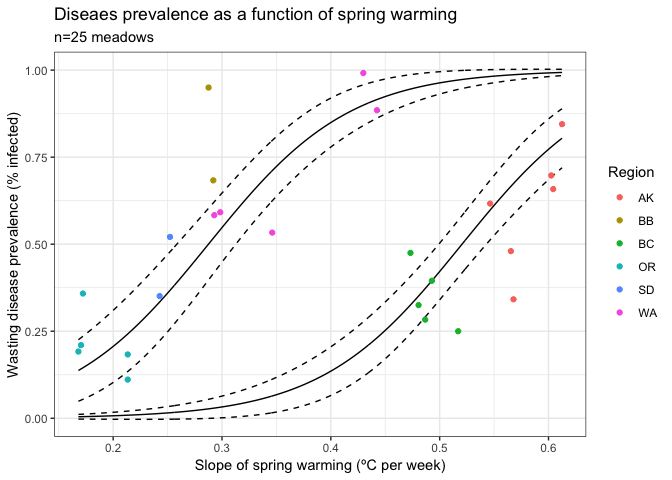
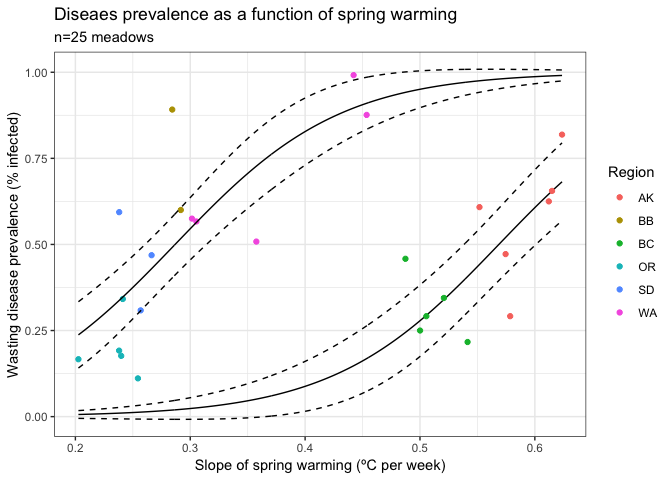
updated spring warming model with most up to date temp data (mix of remote and in situ)

diff --git a/disease_model_III.md b/disease_model_III.md
@@ -5,6 +5,12 @@ LRA
 
 ## Modeling seagrass wasting disease
 
+\*\*Update as of 2020-09-30 I updated this with most recent data
+(modeled OR temps), and it gives the same result, but two major
+hesitations. First, glmmTMB is the wrong package, need to refit with
+betareg, which hasn’t worked so far. And 2, the mixture of remote and in
+situ temps is worrying. Need to determine if this is okay or not.
+
 This is an update to model results from Disease Models II doc, looking
 at disease at the meadow scale with supplemental temperature data.
 Prevalence and severity measurements on individual blades were averaged
@@ -52,25 +58,24 @@ followed geographic patterns, so I re-grouped the meadows as Northern
 lack of temperature data.
 
     ##  Family: beta  ( logit )
-    ## Formula:          PrevalenceMean ~ sBladeArea + sSlope + Region
+    ## Formula:          PrevalenceMean ~ slope + Region
     ## Data: sp
     ## 
     ##      AIC      BIC   logLik deviance df.resid 
-    ##    -21.6    -10.7     19.8    -39.6       16 
+    ##    -22.5    -12.5     19.3    -38.5       18 
     ## 
     ## 
-    ## Overdispersion parameter for beta family (): 13.3 
+    ## Overdispersion parameter for beta family (): 12.3 
     ## 
     ## Conditional model:
     ##             Estimate Std. Error z value Pr(>|z|)    
-    ## (Intercept)  -2.0241     0.7284  -2.779  0.00545 ** 
-    ## sBladeArea   -0.2090     0.2995  -0.698  0.48531    
-    ## sSlope        1.8554     0.5926   3.131  0.00174 ** 
-    ## RegionBB      4.8095     1.2354   3.893 9.90e-05 ***
-    ## RegionBC      0.1239     0.4690   0.264  0.79171    
-    ## RegionOR      3.4319     1.4341   2.393  0.01671 *  
-    ## RegionSD      3.2658     1.4122   2.313  0.02074 *  
-    ## RegionWA      3.6185     0.8989   4.025 5.69e-05 ***
+    ## (Intercept) -7.06672    2.10640  -3.355 0.000794 ***
+    ## slope       12.44657    3.53055   3.525 0.000423 ***
+    ## RegionBB     4.63500    1.19464   3.880 0.000105 ***
+    ## RegionBC    -0.07589    0.44546  -0.170 0.864728    
+    ## RegionOR     2.79896    1.30002   2.153 0.031318 *  
+    ## RegionSD     3.73156    1.25813   2.966 0.003017 ** 
+    ## RegionWA     3.55695    0.88075   4.039 5.38e-05 ***
     ## ---
     ## Signif. codes:  0 '***' 0.001 '**' 0.01 '*' 0.05 '.' 0.1 ' ' 1
 
@@ -80,27 +85,26 @@ lack of temperature data.
     ## Multiple Comparisons of Means: Tukey Contrasts
     ## 
     ## 
-    ## Fit: glmmTMB(formula = PrevalenceMean ~ sBladeArea + sSlope + Region, 
-    ##     data = sp, family = beta_family(link = "logit"), ziformula = ~0, 
-    ##     dispformula = ~1)
+    ## Fit: glmmTMB(formula = PrevalenceMean ~ slope + Region, data = sp, 
+    ##     family = beta_family(link = "logit"), ziformula = ~0, dispformula = ~1)
     ## 
     ## Linear Hypotheses:
     ##              Estimate Std. Error z value Pr(>|z|)    
-    ## BB - AK == 0   4.8095     1.2354   3.893   <0.001 ***
-    ## BC - AK == 0   0.1239     0.4690   0.264   0.9996    
-    ## OR - AK == 0   3.4319     1.4341   2.393   0.1165    
-    ## SD - AK == 0   3.2658     1.4122   2.313   0.1400    
-    ## WA - AK == 0   3.6185     0.8989   4.025   <0.001 ***
-    ## BC - BB == 0  -4.6857     0.9648  -4.856   <0.001 ***
-    ## OR - BB == 0  -1.3776     0.7745  -1.779   0.3840    
-    ## SD - BB == 0  -1.5437     0.6817  -2.264   0.1551    
-    ## WA - BB == 0  -1.1910     0.6813  -1.748   0.4027    
-    ## OR - BC == 0   3.3080     1.1342   2.917   0.0294 *  
-    ## SD - BC == 0   3.1420     1.1324   2.775   0.0442 *  
-    ## WA - BC == 0   3.4947     0.6264   5.579   <0.001 ***
-    ## SD - OR == 0  -0.1660     0.8492  -0.196   0.9999    
-    ## WA - OR == 0   0.1866     0.6866   0.272   0.9996    
-    ## WA - SD == 0   0.3527     0.8369   0.421   0.9966    
+    ## BB - AK == 0  4.63500    1.19464   3.880  0.00101 ** 
+    ## BC - AK == 0 -0.07589    0.44546  -0.170  0.99996    
+    ## OR - AK == 0  2.79896    1.30002   2.153  0.19757    
+    ## SD - AK == 0  3.73156    1.25813   2.966  0.02522 *  
+    ## WA - AK == 0  3.55695    0.88075   4.039  < 0.001 ***
+    ## BC - BB == 0 -4.71089    0.96487  -4.882  < 0.001 ***
+    ## OR - BB == 0 -1.83604    0.55764  -3.292  0.00903 ** 
+    ## SD - BB == 0 -0.90344    0.55944  -1.615  0.49533    
+    ## WA - BB == 0 -1.07805    0.58952  -1.829  0.35992    
+    ## OR - BC == 0  2.87485    1.05021   2.737  0.04887 *  
+    ## SD - BC == 0  3.80745    1.01266   3.760  0.00162 ** 
+    ## WA - BC == 0  3.63283    0.65721   5.528  < 0.001 ***
+    ## SD - OR == 0  0.93260    0.43900   2.124  0.20941    
+    ## WA - OR == 0  0.75798    0.59634   1.271  0.72667    
+    ## WA - SD == 0 -0.17461    0.57393  -0.304  0.99936    
     ## ---
     ## Signif. codes:  0 '***' 0.001 '**' 0.01 '*' 0.05 '.' 0.1 ' ' 1
     ## (Adjusted p values reported -- single-step method)
@@ -109,21 +113,20 @@ With the new Super Region grouping, I re-ran the model with the same
 other effects (Blade Area and Spring Warming)
 
     ##  Family: beta  ( logit )
-    ## Formula:          PrevalenceMean ~ sBladeArea + sSlope + SuperRegion
+    ## Formula:          PrevalenceMean ~ slope + SuperRegion
     ## Data: sp
     ## 
     ##      AIC      BIC   logLik deviance df.resid 
-    ##    -26.9    -21.2     18.5    -36.9       18 
+    ##    -19.2    -14.2     13.6    -27.2       22 
     ## 
     ## 
-    ## Overdispersion parameter for beta family (): 14.1 
+    ## Overdispersion parameter for beta family (): 7.86 
     ## 
     ## Conditional model:
-    ##                     Estimate Std. Error z value Pr(>|z|)    
-    ## (Intercept)          -2.0616     0.3169  -6.506 7.72e-11 ***
-    ## sBladeArea           -0.1501     0.1595  -0.941    0.347    
-    ## sSlope                1.9793     0.2863   6.914 4.73e-12 ***
-    ## SuperRegionSouthern   3.5842     0.5261   6.812 9.60e-12 ***
+    ##              Estimate Std. Error z value Pr(>|z|)    
+    ## (Intercept)   -7.8858     1.4395  -5.478 4.30e-08 ***
+    ## slope         13.8670     2.5369   5.466 4.60e-08 ***
+    ## SuperRegionS   3.9086     0.7604   5.140 2.75e-07 ***
     ## ---
     ## Signif. codes:  0 '***' 0.001 '**' 0.01 '*' 0.05 '.' 0.1 ' ' 1
 
@@ -172,21 +175,21 @@ wasting disease is so well established in WA?
     ## Data: sp
     ## 
     ##      AIC      BIC   logLik deviance df.resid 
-    ##    -80.9    -70.0     49.5    -98.9       16 
+    ##    -83.3    -72.0     50.7   -101.3       17 
     ## 
     ## 
-    ## Overdispersion parameter for beta family (): 48.5 
+    ## Overdispersion parameter for beta family (): 49.7 
     ## 
     ## Conditional model:
     ##             Estimate Std. Error z value Pr(>|z|)    
-    ## (Intercept)  -3.2724     0.5712  -5.729 1.01e-08 ***
-    ## sBladeArea   -0.9973     0.3190  -3.126  0.00177 ** 
-    ## sSlope        0.4160     0.4913   0.847  0.39717    
-    ## RegionBB      0.1416     1.0224   0.138  0.88986    
-    ## RegionBC      0.6217     0.3848   1.616  0.10618    
-    ## RegionOR      1.7745     1.1641   1.524  0.12743    
-    ## RegionSD      0.3925     1.2107   0.324  0.74577    
-    ## RegionWA      1.3146     0.6154   2.136  0.03266 *  
+    ## (Intercept)  -2.9186     0.5172  -5.643 1.67e-08 ***
+    ## sBladeArea   -1.0731     0.3117  -3.443 0.000576 ***
+    ## sSlope        0.1545     0.4285   0.361 0.718427    
+    ## RegionBB     -0.2880     0.9660  -0.298 0.765625    
+    ## RegionBC      0.5323     0.3310   1.608 0.107733    
+    ## RegionOR      1.2194     0.9744   1.251 0.210771    
+    ## RegionSD     -0.1355     1.0911  -0.124 0.901139    
+    ## RegionWA      1.0087     0.5854   1.723 0.084889 .  
     ## ---
     ## Signif. codes:  0 '***' 0.001 '**' 0.01 '*' 0.05 '.' 0.1 ' ' 1
 
@@ -202,19 +205,19 @@ wasting disease is so well established in WA?
     ## 
     ## Linear Hypotheses:
     ##              Estimate Std. Error z value Pr(>|z|)
-    ## BB - AK == 0   0.1416     1.0224   0.138    1.000
-    ## BC - AK == 0   0.6217     0.3848   1.616    0.483
-    ## OR - AK == 0   1.7745     1.1641   1.524    0.544
-    ## SD - AK == 0   0.3925     1.2107   0.324    0.999
-    ## WA - AK == 0   1.3146     0.6154   2.136    0.200
-    ## BC - BB == 0   0.4801     0.7767   0.618    0.980
-    ## OR - BB == 0   1.6329     0.7500   2.177    0.184
-    ## SD - BB == 0   0.2510     0.5893   0.426    0.996
-    ## WA - BB == 0   1.1730     0.6470   1.813    0.360
-    ## OR - BC == 0   1.1528     0.9418   1.224    0.743
-    ## SD - BC == 0  -0.2291     0.9449  -0.242    1.000
-    ## WA - BC == 0   0.6930     0.4122   1.681    0.440
-    ## SD - OR == 0  -1.3819     0.8501  -1.626    0.477
-    ## WA - OR == 0  -0.4599     0.6816  -0.675    0.971
-    ## WA - SD == 0   0.9221     0.8195   1.125    0.801
+    ## BB - AK == 0  -0.2880     0.9660  -0.298    0.999
+    ## BC - AK == 0   0.5323     0.3310   1.608    0.497
+    ## OR - AK == 0   1.2194     0.9744   1.251    0.735
+    ## SD - AK == 0  -0.1355     1.0911  -0.124    1.000
+    ## WA - AK == 0   1.0087     0.5854   1.723    0.423
+    ## BC - BB == 0   0.8203     0.7755   1.058    0.845
+    ## OR - BB == 0   1.5074     0.7529   2.002    0.265
+    ## SD - BB == 0   0.1524     0.5218   0.292    0.999
+    ## WA - BB == 0   1.2966     0.6243   2.077    0.230
+    ## OR - BC == 0   0.6871     0.8244   0.833    0.936
+    ## SD - BC == 0  -0.6679     0.8836  -0.756    0.957
+    ## WA - BC == 0   0.4763     0.4266   1.117    0.815
+    ## SD - OR == 0  -1.3550     0.8528  -1.589    0.510
+    ## WA - OR == 0  -0.2107     0.5627  -0.375    0.998
+    ## WA - SD == 0   1.1442     0.7338   1.559    0.530
     ## (Adjusted p values reported -- single-step method)
